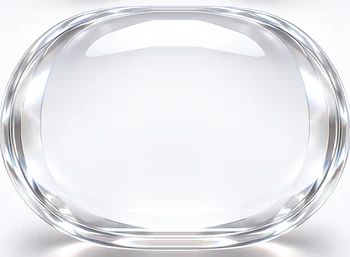
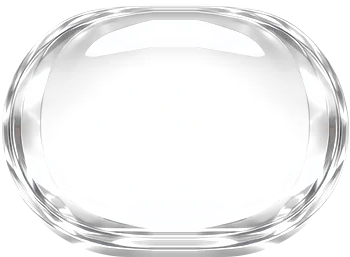
For influencers: Three numbers rows only glass (clear round the pills, see-through faces), a stronger, truly red light at the open row's ends
Claude-Session: https://claude.ai/code/session_01JhZ5DB5vxLeXKkYquUUDqb

diff --git a/site/for-influencers/index.html b/site/for-influencers/index.html
@@ -954,12 +954,12 @@ html.tq-mnav-on .tq-lfab { opacity: 0; pointer-events: none; transform: scale(.8
 .inf-nums__rows { display: flex; flex-direction: column; gap: clamp(6px, 1vw, 12px); }
 .inf-nums__row { --rh: clamp(92px, 9.4vw, 126px); position: relative; display: grid; grid-template-columns: minmax(0, 47%) minmax(0, 1fr); align-items: center; column-gap: clamp(10px, 2vw, 28px);
   box-sizing: border-box; height: var(--rh); padding: 0 calc(var(--rh) * .42); cursor: pointer; outline: none; -webkit-tap-highlight-color: transparent;
-  border: 0 solid transparent; border-image: url(../assets/influencers/nums-row.webp?v=bf47c90654) 128 155 fill / calc(var(--rh) / 2) calc(var(--rh) * .603) stretch;
+  border: 0 solid transparent; border-image: url(../assets/influencers/nums-row.webp?v=e9e3a64f86) 128 155 fill / calc(var(--rh) / 2) calc(var(--rh) * .603) stretch;
   transition: --rh .5s cubic-bezier(.2,.8,.2,1); }
 .inf-nums__row.is-open, .inf-nums__row:focus-visible { --rh: clamp(140px, 16vw, 222px); }
 .inf-nums__row::after { content: ''; position: absolute; z-index: 1; inset: 4% calc(var(--rh) * -.05); pointer-events: none; opacity: 0; transition: opacity .45s ease;
-  background: radial-gradient(closest-side, rgba(231,19,27,.24), rgba(231,19,27,.08) 55%, rgba(231,19,27,0)) 0 50% / calc(var(--rh) * .36) 78% no-repeat,
-    radial-gradient(closest-side, rgba(231,19,27,.24), rgba(231,19,27,.08) 55%, rgba(231,19,27,0)) 100% 50% / calc(var(--rh) * .36) 78% no-repeat;
+  background: radial-gradient(closest-side, rgba(226,10,22,.78), rgba(226,10,22,.3) 50%, rgba(226,10,22,0)) 0 50% / calc(var(--rh) * .42) 84% no-repeat,
+    radial-gradient(closest-side, rgba(226,10,22,.78), rgba(226,10,22,.3) 50%, rgba(226,10,22,0)) 100% 50% / calc(var(--rh) * .42) 84% no-repeat;
   filter: blur(4px); }
 .inf-nums__row.is-open::after, .inf-nums__row:focus-visible::after { opacity: 1; }
 @media (hover: hover) and (pointer: fine) {

diff --git a/site/assets/css/influencers.css b/site/assets/css/influencers.css
@@ -123,8 +123,8 @@
 /* the open row's light: a soft red glow at its two ends (over the glass rim, a little past it), fading in and out as
    the pointer moves from row to row */
 .inf-nums__row::after { content: ''; position: absolute; z-index: 1; inset: 4% calc(var(--rh) * -.05); pointer-events: none; opacity: 0; transition: opacity .45s ease;
-  background: radial-gradient(closest-side, rgba(231,19,27,.24), rgba(231,19,27,.08) 55%, rgba(231,19,27,0)) 0 50% / calc(var(--rh) * .36) 78% no-repeat,
-    radial-gradient(closest-side, rgba(231,19,27,.24), rgba(231,19,27,.08) 55%, rgba(231,19,27,0)) 100% 50% / calc(var(--rh) * .36) 78% no-repeat;
+  background: radial-gradient(closest-side, rgba(226,10,22,.78), rgba(226,10,22,.3) 50%, rgba(226,10,22,0)) 0 50% / calc(var(--rh) * .42) 84% no-repeat,
+    radial-gradient(closest-side, rgba(226,10,22,.78), rgba(226,10,22,.3) 50%, rgba(226,10,22,0)) 100% 50% / calc(var(--rh) * .42) 84% no-repeat;
   filter: blur(4px); }
 .inf-nums__row.is-open::after, .inf-nums__row:focus-visible::after { opacity: 1; }
 @media (hover: hover) and (pointer: fine) { .inf-nums__row:hover::after { opacity: 1; } }

diff --git a/tools/influencers/nums_glass.py b/tools/influencers/nums_glass.py
@@ -26,7 +26,26 @@ row = np.concatenate([left, mid, left[:, ::-1]], 1)
 # the card round the pill: its corners; scale every pixel so that colour becomes CARD (glints above it eased to white)
 bg = np.median(np.concatenate([row[:6, :20].reshape(-1, 3), row[-6:, :20].reshape(-1, 3), row[:6, -20:].reshape(-1, 3), row[-6:, -20:].reshape(-1, 3)]), 0)
 row = np.where(row <= bg, row * CARD / bg, CARD + (row - bg) * (255 - CARD) / np.maximum(255 - bg, 1))
-Image.fromarray(np.clip(row + .5, 0, 255).astype(np.uint8)).save(os.path.join(OUT, 'nums-row.webp'), quality=92, method=6)
+# only the glass, nothing round it (owner's wish: no white under the rows): outside the pill (a capsule, its ends
+# half its height round) fully clear; inside, each pixel as the colour that over the page's background gives it
+# (lighter: white at some alpha; darker: black), so the pill's face is see-through glass, its rim and glints stay
+H_, W_ = row.shape[:2]
+yy, xx = np.mgrid[0:H_, 0:W_].astype(float)
+T, B, X0, X1 = 2.5, H_ - .5, 1.5, W_ - 1.5
+r = (B - T) / 2
+cx = np.clip(xx, X0 + r, X1 - r)
+dist = np.hypot(xx - cx, yy - (T + B) / 2) - r
+inside = np.clip(.5 - dist, 0, 1)                                  # a 1px soft edge
+lum = row.mean(2); bl = CARD.mean()
+lighter = lum >= bl
+al = np.where(lighter, (lum - bl) / (255 - bl), (bl - lum) / bl)
+al = np.clip(al * 1.15, 0, 1) * inside
+col = np.where(lighter[..., None], 255.0, 0.0) * np.ones_like(row)
+# keep the rim's own tint where it is strong (its blue-grey glints)
+strong = al[..., None] > .5
+col = np.where(strong, np.clip((row - (1 - al[..., None]) * CARD) / np.maximum(al[..., None], 1e-3), 0, 255), col)
+rgba = np.dstack([col, al * 255])
+Image.fromarray(np.clip(rgba + .5, 0, 255).astype(np.uint8), 'RGBA').save(os.path.join(OUT, 'nums-row.webp'), lossless=False, quality=92, alpha_quality=100, method=6)
 print('nums-row.webp', row.shape[1], 'x', row.shape[0], '(slices: 128 155 128 155)')
 
 # red brushed metal

diff --git a/README.md b/README.md
@@ -289,7 +289,7 @@ HTTPS (Let's Encrypt) Netlify включит сам.
 
 **Блок «Next star»** (дизайн владельца «Next Star Upsell», ноябрь 2026) — третий на странице, сразу после сцены с планетой, `#star`. Чёрная карточка шириной как остальные: слева «WANT TO BE / OUR NEXT STAR?» (Syncopate, вторая строка красная), строка «The red carpet leads to you. Join TradeQuo creators and earn on every client you bring.» и светлая кнопка «Become a creator ↗» (ведёт на форму, как остальные CTA); справа красная дорожка к светящемуся проёму между титановыми стенами, вспышки фотографов и боке, растворяется в карточке слева. На телефоне слова по центру над дорожкой. **Дорожка в дизайне — 3D-сцена three.js, которая не двигается** (рисуется один раз), поэтому на сайте это картинка, отрендеренная из той же сцены: `site/assets/influencers/star-carpet.webp` (1600 × 600, 29 КБ, широкая камера дизайна) и `star-carpet-m.webp` (900 × 644, 21 КБ, камера для телефона) — вместо ~600 КБ three.js. Сцена и скрипт рендера — `tools/influencers/star/` (как перерисовать — в шапке `render.js`). Под блоком — целый шаг сайта до «Three numbers», над ним — такой же от сцены с планетой. Шрифты по правилам сайта (DM Sans → Inter). Тексты — `inf.star.*`, стили — `.inf-star*` в `influencers.css`.
 
-**Блок «Three numbers»** (с 25 ноября 2026 — светлый стеклянный вариант по макету владельца, `tools/influencers/numbers-src/glass-design.webp`; прежний титановый с цифрами-туманностями заменён, он есть в истории git) — `#numbers`, после «Next star». Светлая карточка (#f9f8fd, мягкая тень), «THREE NUMBERS. / ZERO FINE PRINT.» и три стеклянные строки-пилюли: 87% — Revenue share, ∞ — Sub-partners, 365 — Paydays a year. **Стекло — из самого макета:** `python3 tools/influencers/nums_glass.py` вырезает левый край второй строки макета, зеркалит его вправо и продолжает середину его последним столбцом (без швов) → `nums-row.webp`, которая кладётся как 9-slice `border-image`, а её ободок масштабируется с высотой строки (`--rh`). Цифры — живой текст шрифтом заголовков, залитый красным шлифованным металлом (`nums-red.webp`, рисует тот же скрипт), с тёмно-красным торцом и бликом; ∞ — лемниската из SVG-маски (`nums-loop-*.svg`). **Раскрытие:** изначально все строки одинаковые, видно только номер и название; при наведении мыши (или фокусе с клавиатуры) строка плавно растёт (`--rh` — зарегистрированная длина, анимируется), цифра вместе с ней, и выплывает пояснение (of everything your audience brings in / build a team with no ceiling / paid out every single day). На телефонах наведения нет — строка раскрывается по нажатию (второе нажатие закрывает, открыта одна; `orbit.js`), цифра там не растёт (узкая колонка), растёт только строка под пояснение. `aria-expanded` следует за состоянием. **Без своей карточки** (по просьбе владельца): строки стоят прямо на фоне страницы, рамка `nums-row.webp` выровнена под её цвет #f3f2f7. **Подсветка выбранной строки:** мягкое красное свечение на её левом и правом краю (`.inf-nums__row::after`), плавно появляется на строке под мышью / открытой нажатием и гаснет на прежней. Тексты — `inf.nums.*`, стили — `.inf-nums*` в `influencers.css`.
+**Блок «Three numbers»** (с 25 ноября 2026 — светлый стеклянный вариант по макету владельца, `tools/influencers/numbers-src/glass-design.webp`; прежний титановый с цифрами-туманностями заменён, он есть в истории git) — `#numbers`, после «Next star». Светлая карточка (#f9f8fd, мягкая тень), «THREE NUMBERS. / ZERO FINE PRINT.» и три стеклянные строки-пилюли: 87% — Revenue share, ∞ — Sub-partners, 365 — Paydays a year. **Стекло — из самого макета:** `python3 tools/influencers/nums_glass.py` вырезает левый край второй строки макета, зеркалит его вправо и продолжает середину его последним столбцом (без швов) → `nums-row.webp`, которая кладётся как 9-slice `border-image`, а её ободок масштабируется с высотой строки (`--rh`). Цифры — живой текст шрифтом заголовков, залитый красным шлифованным металлом (`nums-red.webp`, рисует тот же скрипт), с тёмно-красным торцом и бликом; ∞ — лемниската из SVG-маски (`nums-loop-*.svg`). **Раскрытие:** изначально все строки одинаковые, видно только номер и название; при наведении мыши (или фокусе с клавиатуры) строка плавно растёт (`--rh` — зарегистрированная длина, анимируется), цифра вместе с ней, и выплывает пояснение (of everything your audience brings in / build a team with no ceiling / paid out every single day). На телефонах наведения нет — строка раскрывается по нажатию (второе нажатие закрывает, открыта одна; `orbit.js`), цифра там не растёт (узкая колонка), растёт только строка под пояснение. `aria-expanded` следует за состоянием. **Без своей карточки** (по просьбе владельца): строки стоят прямо на фоне страницы, рамка `nums-row.webp` — только стекло: вне капсулы полностью прозрачная, внутри каждый пиксель переведён в белый/чёрный с прозрачностью относительно фона страницы (лицо капсулы — прозрачное стекло, ободок и блики остаются), никаких светлых прямоугольников вокруг. **Подсветка выбранной строки:** насыщенное красное свечение на её левом и правом краю (`.inf-nums__row::after`), плавно появляется на строке под мышью / открытой нажатием и гаснет на прежней. Тексты — `inf.nums.*`, стили — `.inf-nums*` в `influencers.css`.
 
 **Блок «Incentive trips»** — четвёртый на странице, после «Three numbers», `#trips`. **С ноября 2026 — по второму дизайну владельца** (`tools/influencers/trips-design.webp`, 1763 × 892): без тёмной карточки, на светлом фоне страницы. Слева живой текст — «Incentive trips» (красным), «THE TRIP IS» / «ON US.» (Syncopate, `tq-h2`), абзац и три строки (Flights and stay — Covered, Yacht day and dinners — Covered, How you qualify — Results, красным); справа — картинка из дизайна: три сторис поездки в Дубай в стеклянных телефонах (приезд в отель, яхта, ужин на закате). Картинку делает `python3 tools/influencers/trips.py` → `site/assets/influencers/trips-{520,780,1040}.webp` (36–99 КБ): вырезает телефоны с полем, фон дизайна (сиреневатый, к краям темнее) выравнивает под ровный фон страницы #f3f2f7 (фон измеряется вокруг телефонов), края картинки на странице плавно растворяются (маска в CSS). «ON US.» — бирюзовый, как в дизайне, и **с анимацией воды из первого варианта** (по просьбе владельца): фото воды (`nums-water-*.webp`) медленно плывёт внутри букв (22 с туда и обратно), поверх — бирюзовый цвет дизайна (`background-blend-mode: color`: вода сохраняет свет и тени). Анимация идёт только пока блок на экране (`orbit.js` ставит `.is-on`), при «уменьшить движение» — стоит; на телефоне ≈20% главного потока в эмуляции iPhone с CPU ×4 (≈5% на реальном). Колонка та же, что у карточек выше; до 900px — текст, под ним картинка во всю ширину. Тексты — `inf.trip.*` в `strings/influencers/en.json`, стили — `.inf-trip*` в `influencers.css`. Первый вариант блока (тёмная карточка со сторис-заглушками, дизайн «Incentive Trips» 7d) заменён; он есть в истории git.
 
